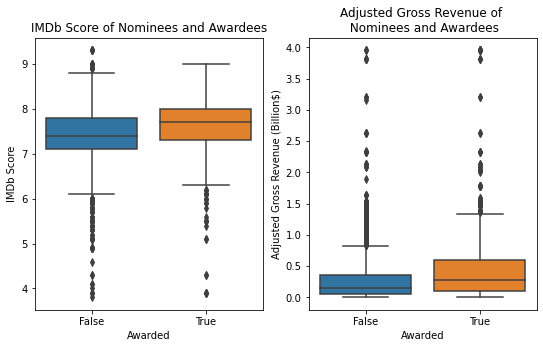
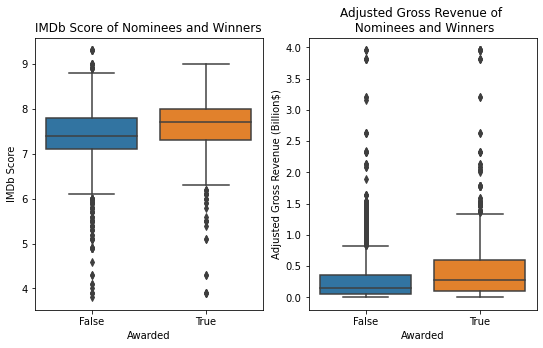
finished README, small changes to plots

Changed region(s): [[0.0589, 0.0575, 0.5009, 0.1149], [0.6483, 0.0575, 0.9134, 0.1149]]

diff --git a/analysis.py b/analysis.py
@@ -25,8 +25,10 @@ def find_top(category, top_n):
         .sort_values(by="awards", ascending=False).head(top_n)
     return top_cat
 
+oscars[oscars['category']=="ACTOR"]['year_ceremony'].max()
+oscars[oscars['category']=="ACTOR IN A LEADING ROLE"]['year_ceremony'].min()
 
-top_actors_lead = find_top("ACTOR IN A LEADING ROLE",5) # IN A LEADING ROLE started from 1976
+top_actors_lead = find_top("ACTOR IN A LEADING ROLE",5) # IN A LEADING ROLE started from 1977
 top_actress_lead = find_top("ACTRESS IN A LEADING ROLE",5)
 top_actors = find_top("ACTOR", 5)
 top_actress = find_top("ACTRESS",5)
@@ -84,6 +86,7 @@ for i in type_colors:
 fig, ax = plt.subplots()
 for index, row in top.iterrows():
     plt.barh(y=row['name'], width=row['duration'], left=row['first'] , color=type_colors[row['type']])
+plt.gca().invert_yaxis()
 plt.title('Time between first and last Oscar nomination')
 ax.legend(handles=patches, labels=type_colors.keys(), fontsize=11)
 plt.show()
@@ -150,12 +153,12 @@ revenue['adjusted'] = revenue['adjusted'] / 1e9
 fig, axes = plt.subplots(1, 2, figsize=(9,5))
 
 sns.boxplot(data=score, x='winner', y='score', ax=axes[0])
-axes[0].set_title('IMDb Score of Nominees and Awardees')
+axes[0].set_title('IMDb Score of Nominees and Winners')
 axes[0].set_xlabel('Awarded')
 axes[0].set_ylabel('IMDb Score')
 
 sns.boxplot(data=revenue, x='winner', y='adjusted', ax=axes[1])
-axes[1].set_title('Adjusted Gross Revenue of \n Nominees and Awardees')
+axes[1].set_title('Adjusted Gross Revenue of \n Nominees and Winners')
 axes[1].set_xlabel('Awarded')
 axes[1].set_ylabel('Adjusted Gross Revenue (Billion$)')
 axes[1].ticklabel_format(axis='y', useOffset=False)

diff --git a/README.md b/README.md
@@ -1,2 +1,67 @@
-# oscars
-Analysis of the Oscars awardees and nominees
+# Data Analysis of Oscars Nomination and Awards
+
+The Oscars, officially known as the Academy Awards, are one of the most prestigious and highly anticipated events in the world of entertainment. Established by the Academy of Motion Picture Arts and Sciences (AMPAS) in 1929, the Oscars recognize excellence in various categories, including Best Picture, Best Director, Best Actor, Best Actress, and many more. Around 5000 films and 7000 people have been nominated for different categories during its 95-year history. By analyzing the dataset of all the past nominees and awardees of the Academy Awards in conjunction with the popular online media database IMDb, I aim to answer the following questions:
+
+*   Which director/actor/actress has received the most number of nominees?
+*   What genre is most popular in each of the "Big Five" category?
+*   Is there a correlation between IMDb score/gross revenue and likelihood of winning?
+
+## Code and Resources Used
+**Python Version:** 3.9
+
+**Packages:** pandas, matplotlib, scipy, cpi, seaborn
+
+The datasets used in this project were downloaded from Kaggle:
+*   The Oscar Award, 1927 - 2023 https://www.kaggle.com/datasets/unanimad/the-oscar-award
+*   Movie Industry https://www.kaggle.com/datasets/danielgrijalvas/movies
+
+
+## Results
+
+### Which director/actor/actress has received the most number of nominees?
+
+The table below shows the top three directors with the most nominations since 1929.
+
+| Directors        | Nominations |
+|------------------|-------------|
+| William Wyler    | 12          |
+| Martin Scoresese | 9           |
+| Steven Spielberg | 9           |
+| Billy Wilder     | 8           |
+
+The two table below shows the top three actors and actresses with the most nominations since 1929. The award category considers both "Best Actor/Actress" (used from 1929-1976) and "Best Actor/Actress in a Leading Role" (used since 1977).
+
+| Actors            | Nominations |
+|-------------------|-------------|
+| Spencer Tracy     | 9           |
+| Laurence Olivier  | 7           |
+| Marlon Brando     | 7           |
+| Denzel Washington | 8           |
+| Paul Muni         | 6           |
+
+| Actress           | Nominations |
+|-------------------|-------------|
+| Meryl Streep      | 17          |
+| Katharine Hepburn | 11          |
+| Bette Davis       | 11          |
+| Greer Garson      | 7           |
+
+A modified Gantt chart shows the time period in which these nominations occured. Most of the top nominees were active before 1980s, but there are few that have received their nominations after 1980. Most notably, Greer Garson has received seven nominations in the span of 22 years, which calculates to roughly one nomination every three years!
+
+![alt text](https://github.com/misaki-inoue/oscars/blob/main/timeline.png "Gantt chart of the time between first and last Oscar nomination of the top three directors/actors/actresses")
+
+###  What genre is most popular in each of the "Big Five" category?
+
+The Oscars and IMDb dataset were merged to explore the genre of Oscar nominated films. Although the IMDb dataset only contains films from 1980-2020, the merged dataset contained more than 1000 entries after filtering for the "Big Five" category (Best Actor in a Leading Role, Best Actress in a Leading Role, Best Director, Best Writing, Best Picture).
+
+In all categories, drama was the most popular followed by biography or comedy.
+
+![alt text](https://github.com/misaki-inoue/oscars/blob/main/genre.png "Stacked bar plot of different film genres nominated for the Big Five categories")
+
+###  Is there a correlation between IMDb score/gross revenue and likelihood of winning?
+
+The IMDb dataset contains IMDb score out of 10 and the gross revenue for each film. Therefore, a statistical analysis called Mann-Whitney U test was performed to compare the median IMDb score or gross revenue between nominees and winners. This non-parametric test was chosen to compare two samples of different sizes (2729 nominees vs. 784 winners). The gross revenues in US Dollars were adjusted for inflation using a Python library called `cpi`.
+
+The boxplot below shows that median IMDb score is higher for winners by 0.3 points (_U_ = 1330259.5, _p_ =  1.95<sup>-25</sup>). It also shows that median adjusted gross revenue of winners is $132,857,028 more than the nominees. In conclusion, there is a correlation between higher IMDb score and higher gross revenue of a film with the likelihood of winning a Oscars category.
+
+![alt text](https://github.com/misaki-inoue/oscars/blob/main/score_revenue.png "Box plot on right shows IMDb score nominees and winners. Box plot on left shows adjusted gross revenue of nominees and winners.")
